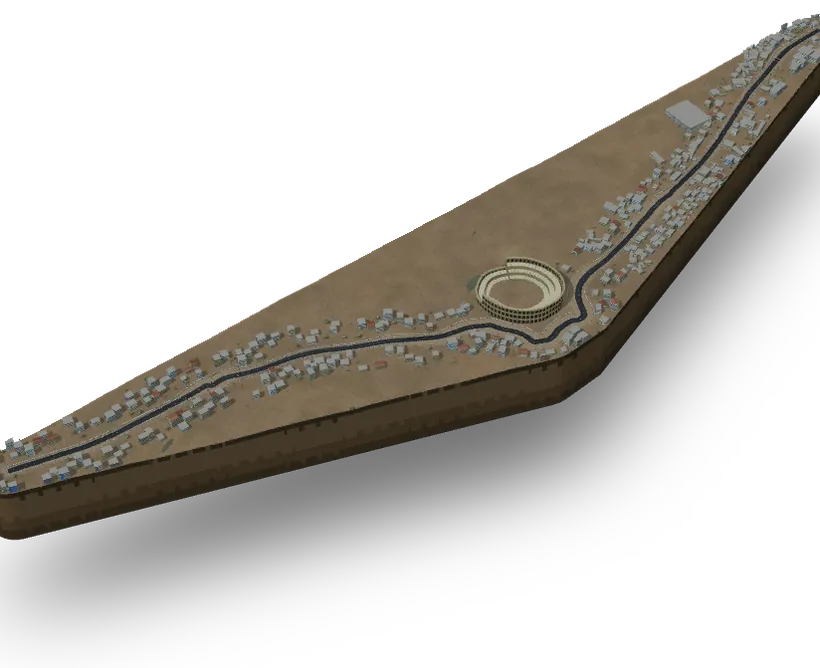
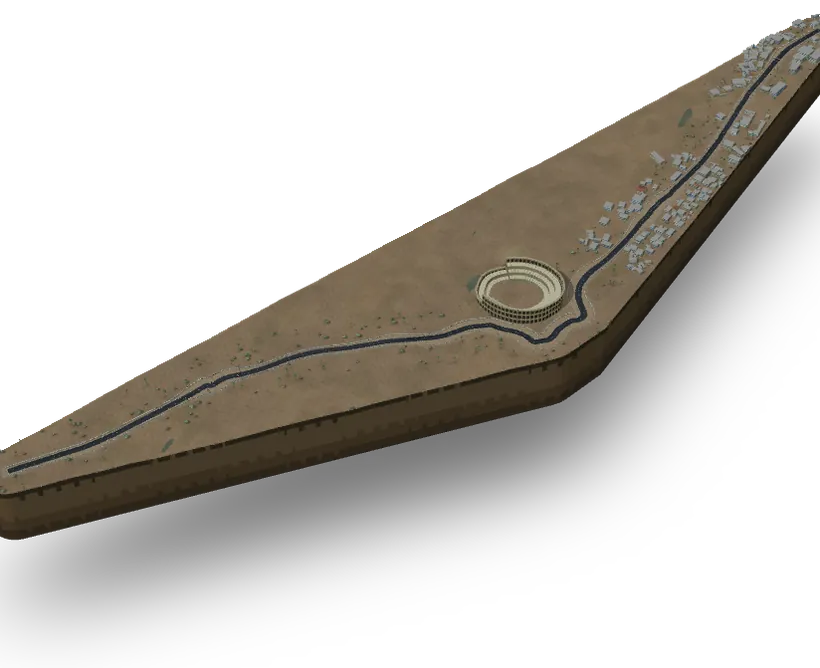
El Jem: samo hiše iz OSM (brez dodatnih v pozidanih delih), cesta preverjena po mreži čez tloris, brez tlorisov nad 70 m; slika za meni in reference znova
Claude-Session: https://claude.ai/code/session_01BFNqNHftu1ck8ktjjHxZnF

diff --git a/js/world-eljem.js b/js/world-eljem.js
@@ -3,7 +3,7 @@
    Its own builder (World.ext.eljem) in a file of its own, on World's shared corridor helpers (World.api: nrPrep's terrain from the track's
    dem and land cover) and the scenery data of js/data/eljem.js (OpenStreetMap, Copernicus DEM, ESA WorldCover, Meta / WRI canopy).
    The 60 m rule: the detailed things only within ~60 m of the road, as far as the chase camera sees them: the white and sandstone houses of
-   the town in their OSM footprints and more of the same where the land is built up (flat roofs with their parapets), the olive trees and
+   the town in their OSM footprints only (flat roofs with their parapets), the olive trees and
    the palms on the dry ochre ground, the concrete barriers, and by the road the Roman amphitheatre (its oval of arcades after its OSM outline:
    the model of assets/landmarks/eljem.glb, made in Blender by tools/znamenitost/, World.znamenitost; until it has loaded, or if it cannot,
    the simpler one built here). Farther out only the terrain from the heights and the far land. Only geographic and plain names.
@@ -208,7 +208,7 @@
 
     /* ---- the spectators' context ---- */
     const CR = crowdCtx({ gH: nrGround, near: (x, z) => nrNear(x, z).dd, maxSlope: 0.7 });
-    let nBld = 0, nFill = 0, nStone = 0;
+    let nBld = 0, nStone = 0;
 
     /* ---- the amphitheatre: the simple one (one mesh) until the model of assets/landmarks/eljem.glb has loaded (World.znamenitost): its oval
        outer wall along the OSM outline in three storeys of arches (piers and the dark openings between them, a cornice over each storey), a
@@ -256,35 +256,18 @@
     for (const [bx, bz, Lb, Wb, ang, Hb, k0] of LD.bld) {
       if (inFort(bx, bz, 4)) continue;   // (nothing in the amphitheatre)
       const ca = Math.cos(ang), sa = Math.sin(ang), corners = [[Lb / 2, Wb / 2], [Lb / 2, -Wb / 2], [-Lb / 2, Wb / 2], [-Lb / 2, -Wb / 2]].map(([a, b]) => [bx + ca * a - sa * b, bz + sa * a + ca * b]);
-      let clash = false, y0 = 1e9, sea = false; for (const [cx, cz] of corners.concat([[bx, bz]])) { const n = nrNear(cx, cz); if (n.i >= 0 && n.dd < 1.2) clash = true; y0 = Math.min(y0, nrGround(cx, cz)); if (seaD(cx, cz) > 2) sea = true; }
+      // big footprints (the market halls and the walled yards, 70+ m) left out: they would wall in the view behind the car; the road checked on a grid over the whole footprint, not only at its corners
+      if (Math.max(Lb, Wb) > 70) continue;
+      let clash = false, y0 = 1e9, sea = false; for (const [cx, cz] of corners.concat([[bx, bz]])) { y0 = Math.min(y0, nrGround(cx, cz)); if (seaD(cx, cz) > 2) sea = true; }
+      const nu = Math.ceil(Lb / 4), nv = Math.ceil(Wb / 4);
+      for (let u = 0; u <= nu && !clash; u++) for (let v = 0; v <= nv; v++) { const a = (u / nu - 0.5) * Lb, b = (v / nv - 0.5) * Wb, n = nrNear(bx + ca * a - sa * b, bz + sa * a + ca * b); if (n.i >= 0 && n.dd < 1.2) { clash = true; break; } }
       if (clash || sea || Lb < 2.2 || Wb < 2.2) continue;
       const g = scen.get(bx, bz), hk = crH(bx, bz, 11), area = Lb * Wb, big = k0 === 5 || k0 === 6 || k0 === 9 || area > 240;
       const hh = Hb || (big ? (3 + Math.floor(hk * 2)) * 3.1 : area < 45 || k0 === 4 ? 3 + hk : 6.2 + hk * 1.4);
       house(g, bx, bz, Lb, Wb, ang, y0, hh, big || crH(bx, bz, 15) < 0.96, vary(WALL[Math.floor(crH(bx, bz, 12) * WALL.length)], R, 0.05));
       nBld++; CR.block(bx, bz, Lb, Wb, ang); exclPush(bx, bz, Math.max(Lb, Wb) / 2 + 2);
     }
-    // more of the city where the land cover says it is built up and OpenStreetMap has no footprints (15-55 m from the road, square to it)
-    {
-      const Lt = NRC * 32;
-      for (let tj = 0; tj < G.ntz; tj++) for (let ti = 0; ti < G.ntx; ti++) {
-        if (!G.on[tj * G.ntx + ti]) continue;
-        const xa = G.x0 + ti * Lt, za = G.z0 + tj * Lt;
-        for (let zz = za; zz < za + Lt; zz += 18) for (let xx = xa; xx < xa + Lt; xx += 18) {
-          if (crH(xx, zz, 40) > 0.55) continue;
-          const x = xx + (crH(xx, zz, 41) - 0.5) * 6, z = zz + (crH(xx, zz, 42) - 0.5) * 6, rd = nrDist(x, z);
-          if (rd < 15 || rd > 55 || nrLCf(x, z, 3) < 0.5) continue;
-          const Lb = 9 + crH(x, z, 43) * 7, Wb = 8 + crH(x, z, 44) * 6;
-          if (rd < 0.6 * Math.hypot(Lb, Wb) + 9 || excluded(x, z) || seaD(x, z) > -8 || inFort(x, z, 18)) continue;
-          const nn = nrNear(x, z), ni = nn.i, ndd = nn.dd; if (ni < 0 || ndd < 4) continue;
-          const ang = T.hd[ni], ca = Math.cos(ang), sa = Math.sin(ang);
-          let lo = 1e9, hi = -1e9; for (const [a, b] of [[Lb / 2, Wb / 2], [Lb / 2, -Wb / 2], [-Lb / 2, Wb / 2], [-Lb / 2, -Wb / 2]]) { const h = nrGround(x + ca * a - sa * b, z + sa * a + ca * b); lo = Math.min(lo, h); hi = Math.max(hi, h); }
-          if (hi - lo > 4) continue;
-          const fl = 2 + Math.floor(crH(x, z, 45) * 4);
-          house(scen.get(x, z), x, z, Lb, Wb, ang, lo, fl * 3.1, crH(x, z, 46) < 0.85, vary(WALL[Math.floor(crH(x, z, 47) * WALL.length)], R, 0.05));
-          nFill++; CR.block(x, z, Lb, Wb, ang); exclPush(x, z, Math.max(Lb, Wb) / 2 + 2);
-        }
-      }
-    }
+    // (no houses where OpenStreetMap has no footprints: only what is in the map)
 
     /* ---- the start: a banner over the road on two masts at the line (no words), flags along the walls; a banner at the finish too ---- */
     for (const s0 of [sStart, sFin]) {
@@ -416,7 +399,7 @@
     const sceneryGroup = new THREE.Group(); root.add(sceneryGroup);
     scen.addTo(sceneryGroup, matV, true, true);
     crowdFinish(CR, root, out);
-    out.stats = { tiles: nTiles, trees: nTrees, buildings: nBld, fill: nFill, stone: nStone, fans: nFans, rocks: 0 };   // (read by the tests)
+    out.stats = { tiles: nTiles, trees: nTrees, buildings: nBld, stone: nStone, fans: nFans, rocks: 0 };   // (read by the tests)
     return out;
   }
 

diff --git a/docs/proge/eljem.md b/docs/proge/eljem.md
@@ -6,8 +6,8 @@ Kratka mestna proga po današnjih cestah El Jema, mesta sredi oljčnih nasadov t
 
 - **Oblika proge:** sredinska črta iz OpenStreetMap (`tools/proga-podatki.py`, `tools/eljem/config.json`), proga in podatki okolice iz `python3 -I tools/eljem/build.py track` in `world` (ne urejaj `js/tracks/eljem.js` in `js/data/eljem.js` ročno). Širine po pravih cestah, razširjene na dirkalno širino (9,6–12 m). Višine: Copernicus DEM GLO-30 brez krošenj (Meta / WRI) in stavb (OSM), zglajene. Medalje: serijski reli avto na avtopilotu × 1,01 / 1,06 / 1,14 (suho, dež, zima, sneg).
 - **Znamenitost:** rimski amfiteater (obris iz OSM) je ~23 m od sredine ceste pri s ≈ 857 m (~31 % dirke; središče elipse ~79 m od ceste), viden s kamere za avtom ob približevanju po ulici proti njemu (s ≈ 760–840 m), ob obvozu po vzhodni strani (s ≈ 880–980 m) in v ogledalih za njim. Model je narejen v Blenderju (`tools/znamenitost/eljem.py`, bpy iz pip) po obrisu iz OSM in višinah terena (`tools/znamenitost/eljem-tla.mjs`): trije nizi arkad, hodniki med nizi, porušen del zunanjega zidu, arena; bližnji in daljni model (`assets/landmarks/eljem.glb`, `eljem-far.glb`). Pod njim ravna terasa (`js/world-eljem.js`). Dokler se model ne naloži ali če se ne more, stoji preprostejši, narejen v igri.
-- **Okolica (do ~60 m od ceste):** bele in peščene hiše po obrisih iz OSM in dodatne enake v pozidanih delih (ravne strehe s parapeti), oljke in palme na suhih okrastih tleh, betonske ločilne ograje mestnih cest (preprečijo padec čez rob; v ostrem ovinku pri s ≈ 915 m je ograja brez zanke). Gledalcev malo (`fewFans`). Dlje samo teren in daljno kopno.
+- **Okolica (do ~60 m od ceste):** bele in peščene hiše samo po obrisih iz OSM (ravne strehe s parapeti; brez tlorisov nad 70 m in brez tistih, ki bi segli na cesto), kjer jih OSM nima, jih ni, oljke in palme na suhih okrastih tleh, betonske ločilne ograje mestnih cest (preprečijo padec čez rob; v ostrem ovinku pri s ≈ 915 m je ograja brez zanke). Gledalcev malo (`fewFans`). Dlje samo teren in daljno kopno.
 - **Imena na zaslonu:** samo opisna (Proti amfiteatru, Amfiteater, Za areno, Skozi mesto, Severni izhod).
 - **Meni:** slika `assets/tracks/eljem.webp` in `eljem-rain.webp`, ovinek »Ob amfiteatru« (`assets/maps/corner-eljem.webm`, `tools/menu-corners.json`), kraj na globusu in obris Tunizije (`tools/menu-globe.mjs`), zastava `assets/flags/tunisia.svg`.
-- **Približki:** enotna dirkalna širina, ločilne ograje namesto pravih robnikov, razporeditev dodatnih hiš in dreves, poenostavljen amfiteater (brez podzemnih hodnikov in notranjih prostorov, brez napisov in kipov).
+- **Približki:** enotna dirkalna širina, ločilne ograje namesto pravih robnikov, višine hiš (OSM jih nima), razporeditev dreves po pokrovnosti tal (ESA WorldCover), poenostavljen amfiteater (brez podzemnih hodnikov in notranjih prostorov, brez napisov in kipov).
 - **Viri:** © OpenStreetMap contributors (ODbL 1.0), Copernicus DEM GLO-30, ESA WorldCover 2021 (CC BY 4.0), Meta / WRI High Resolution Canopy Height Maps (CC BY 4.0); glej `README.md`, »Zasluge«.
